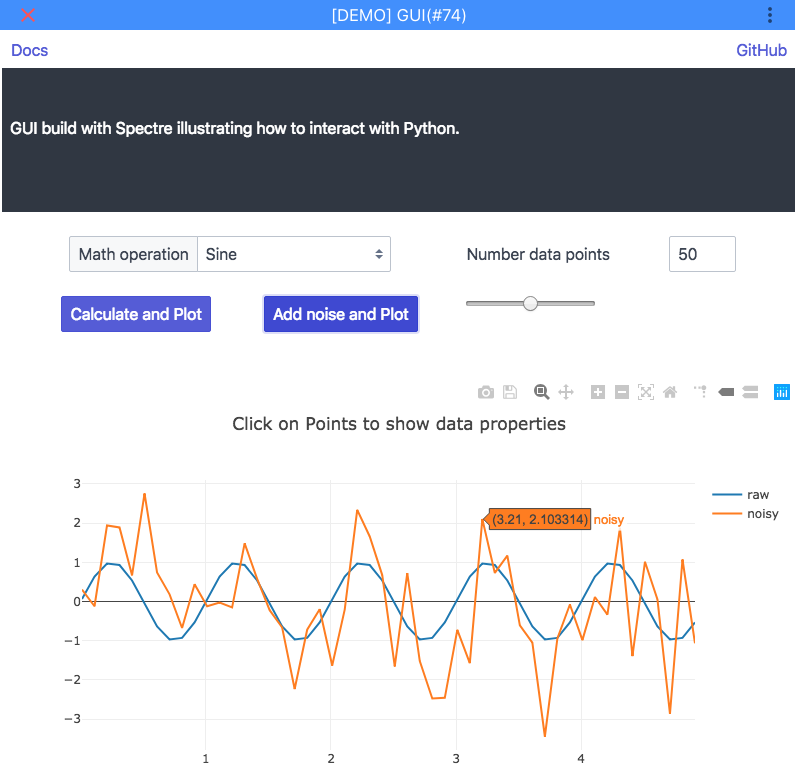
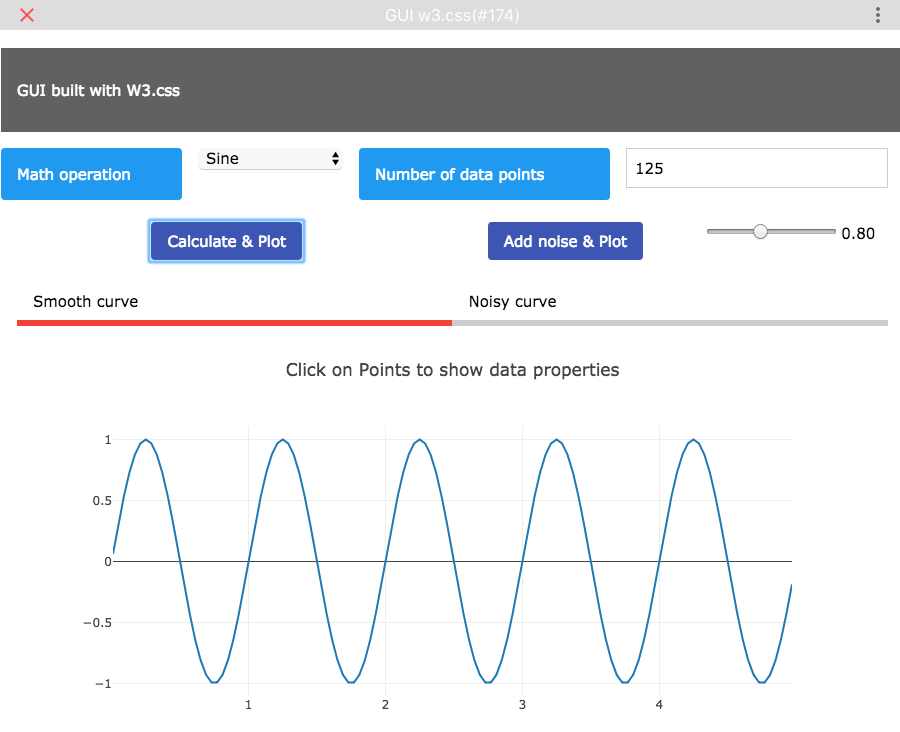
Updated tutorial for GUI

diff --git a/docs/docs/tutorial.md b/docs/docs/tutorial.md
@@ -2,7 +2,7 @@
 Here we provide several tutorial illustrating important concepts of ImJoy. You can inspect the code of the provided plugins by clicking on the symbol left of the plugin name and selecting `Edit`.
 
 ## User interaction
-An important part of ImJoy is to provide a flexible way to interact with the user, to either specify input information or provide results. 
+An important part of ImJoy is to provide a flexible way to interact with the user, to either specify input information or provide results.
 
 **User input**
 
@@ -11,7 +11,7 @@ An important part of ImJoy is to provide a flexible way to interact with the use
 
 **Provide results**
 
-1. The ImJoy API provides several functions to show results, e.g. indicate [progress](https://imjoy.io/docs/#/api?id=api-showprogress-), update the [ImJoy status](https://imjoy.io/docs/#/api?id=api-showstatus-), 
+1. The ImJoy API provides several functions to show results, e.g. indicate [progress](https://imjoy.io/docs/#/api?id=api-showprogress-), update the [ImJoy status](https://imjoy.io/docs/#/api?id=api-showstatus-),
 2. The ImJoy API also provides a function to [create a window](https://imjoy.io/docs/#/api?id=api-createwindow-). In this window, powerful JavaScript visualization librariers can used. For more details, have a look at our window plugin demo **ADD LINK**.
 
 **Dedicated user interface**
@@ -20,32 +20,34 @@ For more advanced purposes, you can can use define a user interface with the [**
 ### Python plugin plots in window plugin
 In this tutorial, we show how data ((a damped cosine) generated in a Python plugin can be displayed in a window plugin. In the window plugin, the data is rendered with JavaScript libraries. This approach thus allows to take full advantage of these very powerful libraries. They provide not only a large variety of different types of graphs, but also user-interactivity.
 
-You can install the Python plugin either to run 
+You can install the Python plugin either to run
 
- * in the <a href="https://imjoy.io/#/app?plugin=oeway/ImJoy-Demo-Plugins:JS charts PyWorker&w=demo-JS-charts" target="_blank">**Python plugin engine**</a> 
+ * in the <a href="https://imjoy.io/#/app?plugin=oeway/ImJoy-Demo-Plugins:JS charts PyWorker&w=demo-JS-charts" target="_blank">**Python plugin engine**</a>
  * or with <a href="https://imjoy.io/#/app?plugin=oeway/ImJoy-Demo-Plugins:JS charts WebPython&w=demo-JS-charts" target="_blank">**web Python**</a>
- 
+
 Note that the window plugin is installed automatically as a dependency.
 
 The two plugins perform distinct functions:
-1. The **Python plugin** "Python to JS charts". Here you can select how many data points should be calculated and which JS library should be used for display. 
+1. The **Python plugin** "Python to JS charts". Here you can select how many data points should be calculated and which JS library should be used for display.
 2. The **window plugin** "JScharts". Here the obtained data will be rendered as a line plot.  We provde a simple example for three of the major JavaScript chart libraries:
     * [Plotly](https://plot.ly/javascript/)
-    * [C3](https://c3js.org/)    
+    * [C3](https://c3js.org/)
     * [Chart.js](https://www.chartjs.org/docs/latest/)
 
-The **main steps** are described below and basic data flow is illustrated by dashed errors in the image above. 
-1. User defines how many data points should be calculated, some text that will be displayed in the window plugin, and which JavaScript library will be used to plot the data. 
+The **main steps** are described below and basic data flow is illustrated by dashed errors in the image above.
+1. User defines how many data points should be calculated, some text that will be displayed in the window plugin, and which JavaScript library will be used to plot the data.
 2. Upen execution of the Python plugin, the damped cosine curve will be computed. Then a dictionary `data` containing these values, as well as the text and the name of the desired JS library is created. THe necessary content of this dictionary is specified by the window plugin. This will then be added to another dictionary `data_plot` that contains specifications for the window plugin: `type` to specify which window plugin should be called, `name` to specify the window title, `w` and `h` the specify the size. The dictionary `data_plot` will be used with the ImJoy API function `api.createWindow` to call the window plugin.
-3. In the window plugin the transfered data are available as `my.data` and are used to create the JavaScript plot and also populate the HTML text field. 
-4. The `api.createWindow` returns an identifier for the window. When plotting again, the Python plugin attemtps to plot into this window. Please note that here on the actual data are passed as an input and not the larger dictionary containing the specifications of the window. For the plugin running in the Python engine, we added a  `try ... except` statement to catch error arises when the window has been closed. 
+3. In the window plugin the transfered data are available as `my.data` and are used to create the JavaScript plot and also populate the HTML text field.
+4. The `api.createWindow` returns an identifier for the window. When plotting again, the Python plugin attemtps to plot into this window. Please note that here on the actual data are passed as an input and not the larger dictionary containing the specifications of the window. For the plugin running in the Python engine, we added a  `try ... except` statement to catch error arises when the window has been closed.
 
 <img src="./asserts/imjoy-tutorial-python-to-js.png" width="800px"></img>
 
 ### User interface communicating with Python worker
-In this tutorial, we show how to use a **window** plugin to defined a user interface, and how this interface can interact with a **Python worker** plugin to perform calculations. 
+In this tutorial, we show how to use a **window** plugin to defined a user interface, and how this interface can interact with a **Python worker** plugin to perform calculations.
 
-You can install this plugin from this [link](http://imjoy.io/#/app?plugin=oeway/ImJoy-Demo-Plugins:GUI&w=demo-GUI). This will install the actual interface plugin (GUI) and automatically the Python plugin (GUI PyWorker) performing the calculations. The purpose of this plugin is self-explanatory, you can open the GUI by double clicking on the plugin title. Just play around. 
+You can install this plugin from this
+<a href="http://imjoy.io/#/app?plugin=oeway/ImJoy-Demo-Plugins:GUI w3&w=demo-GUI" target="_blank">**link**</a>.
+This will install the actual interface plugin (GUI w3.css) and automatically the Python plugin (GUI PyWorker) performing the calculations. The purpose of this plugin is self-explanatory, you can open the GUI by double clicking on the plugin title. Just play around.
 
 <img src="./asserts/imjoy-tutorial-gui-screenshot.png" width="600px"></img>
 
@@ -53,50 +55,50 @@ This tutorial illustrates a number of different important concepts, which we des
 
 1. How to get started in coding an ImJoy user-interface with HTML and JavaScript.
 2. How to communicate between the user interface and the Python worker.
-3. How to store data in the Python worker for further calcuations. 
+3. How to store data in the Python worker for further calcuations.
 
 #### Web-design for an ImJoy user interface
-The window plugins are developed with HTML5/CSS and JavaScript. Here we provide only a fast overview of these languages. 
-Excellent ressources to get started with HTML and JavaScript
-
-* Hands-on tutorial can be found here [www.w3schools.com/](https://www.w3schools.com/)
-* Different online coding platforms exist to test and develop code, but you can essentially use ImJoy to test your code. 
-Useful platforms are
-    * [https://playcode.io/](https://playcode.io/)
-    * [https://codepen.io](https://codepen.io/) 
+The window plugins are developed with HTML5/CSS and JavaScript. Here we provide
+only a fast overview of these languages. An excellent ressources to get started with HTML and JavaScript is  [www.w3schools.com/](https://www.w3schools.com/). Other coding platforms exist to test and develop code ([playcode.io/](https://playcode.io/) or [codepen.io](https://codepen.io/)), but you can essentially use ImJoy to test your code as well.
 
 HTML5/CSS and JavaScript control the three relevant aspects of an interface. In ImJoy, these three elements are defined in one [single file](https://github.com/oeway/ImJoy-Demo-Plugins/blob/master/repository/GUI.imjoy.html), and specified in dedicated code blocks.
 
-* **HTML**: structure.  The HTML code is in the code block delignated with 
-    ```
+* **HTML**: structure of the page. The HTML code is in the code block delignated as shown below. Please note the `<div>` element, which is required. Currently, window plugins can only have one root element.
+    ``` html
     <window lang="html">
-       ...
+       <div>
+        ...
+        </div>
     </window>
     ```
-* **JavaScript**: behavior of the interface
-    ```
+* **JavaScript**: behavior of the interface.
+    ``` html
     <script lang="javascript">
        ...
     </script>
     ```
 
-* **CSS**: visual appearance of the interface. Here, we we recommend [Spectre.css](https://picturepan2.github.io/spectre/), an easy to use framework to design webinterfaces. This framework can be imported in the plugin requirements
+* **CSS**: visual appearance of the interface. Many different CSS frameworks exist, but we recommend [W3.css](https://www.w3schools.com/w3css/default.asp). It provides most needed elements, and has an outstanding documentation with interactive examples for
+all options. This framework can be imported in the plugin requirements
+    ``` html
+   "requirements": ["https://www.w3schools.com/w3css/4/w3.css",
+                    "https://www.w3schools.com/lib/w3-theme-indigo.css",
+                    "https://cdnjs.cloudflare.com/ajax/libs/font-awesome/4.7.0/css/font-awesome.min.css"],
     ```
-   "requirements": ["https://unpkg.com/spectre.css/dist/spectre.min.css",
-                   "https://unpkg.com/spectre.css/dist/spectre-exp.min.css",
-                   "https://unpkg.com/spectre.css/dist/spectre-icons.min.css"],
-    ```
-The image below shows some code snippets to illustrate how user interput is retrieved, and a Python function called. The following sequence is shown.
 
-1. User presses on a button to perform a calculation based on some defined input. 
-2. Python function is called.
-3. Calculations are performed, results stored in Python plugin and shown in main interface.
+#### Workflow in the plugin
+The image below shows some code snippets to illustrate the workflow from clicking
+a button to showing the plot. The main steps are the following (and detailed more below)
+
+1. User presses on a button. This is triggers the execution of the `onclick` function.
+2. In this function, user input from the window plugin is retrieved, and the Python plugin is called.
+2. Calculations are performed, results stored in Python plugin and shown in main interface.
 
 <img src="./asserts/imjoy-tutorial-gui-code.png" width="800px"></img>
 
 **Determine behavior of HTML elements**
 
-HTML elements can respond to user interaction. The corresponding action is defined in JavaScript in the ```setup()``` function. In the image above, this is shown for the html element button with the id `btn_plot`. When the user clicks on this button (`onclick`) the defined function call is called. In the example, the current value of two other html elments (the forms containing the number of data points and the math operator) are retrieved, and passed to another function called `calc_plot()`.
+HTML elements can respond to user interaction. The corresponding action is defined in JavaScript in the ```setup()``` function. In the image above, this is shown for the html element button with the id `btn_plot`. When the user clicks on this button (`onclick`) the defined function calls are executed. In the example, the current value of two other html elments (the forms containing the number of data points and the math operator) are retrieved, and passed to the Python plugin together with a callback function permitting to plot data in the window plugin.
 
 **Communication between window and Python plugin**
 
@@ -104,7 +106,7 @@ Communication between the window and Python plugin is achieved by the ImJoy API 
 
 **Python calculations, storage and callback**
 
-Let's have a look at the Python function `calc_results`. It receives the JavaScript dictionary, extracts all necessary parameters and perform the desired calculation. Then it stores the data wiht `self.x_values = x`. Lastly, invokes the callback function to print in the main window with `callback_fun(...)`. Here the parameters are again passed as a dictionary. Please note, the **numpy** arrays are not supported, and the data has therefore be transformed to a list. 
+Let's have a look at the Python function `calc_results`. It receives the JavaScript dictionary, extracts all necessary parameters and perform the desired calculation. Then it stores the data wiht `self.x_values = x`. Lastly, invokes the callback function to print in the main window with `callback_fun(...)`. Here the parameters are again passed as a dictionary. Please note, the **numpy** arrays are not supported, and the data has therefore be transformed to a list.
 
 ## Distribution and deployment
 
@@ -123,14 +125,14 @@ dependencies are required. [GitHub Gist](https://gist.github.com/) is a service 
 will change when you update your file.
 
 ##### Distribute plugin with url
-Once your plugin is on gist, you can distribute it with a single link. When pressing this link, ImJoy will open its Plugin import interface, where the user has to confirm the installation of the plugin. 
+Once your plugin is on gist, you can distribute it with a single link. When pressing this link, ImJoy will open its Plugin import interface, where the user has to confirm the installation of the plugin.
 `http://imjoy.io/#/app?plugin=LinkToGIST.imjoy.html`
 
 You can also control where the plugin will be installed by setting the
 workspace parameter `w=`:
 `http://imjoy.io/#/app?w=PluginTest&plugin=LinkToGIST.imjoy.html`
 
-Alternatively, this url can then be used to install the plugin directly in ImJoy: press the `+ Plugins` button and add the the url in the field `Install plugin from url`. 
+Alternatively, this url can then be used to install the plugin directly in ImJoy: press the `+ Plugins` button and add the the url in the field `Install plugin from url`.
 
 ### Distribution and deployment of code/data stored on Dropbox
 This example describes how you can distribute and deploy a Python plugin
